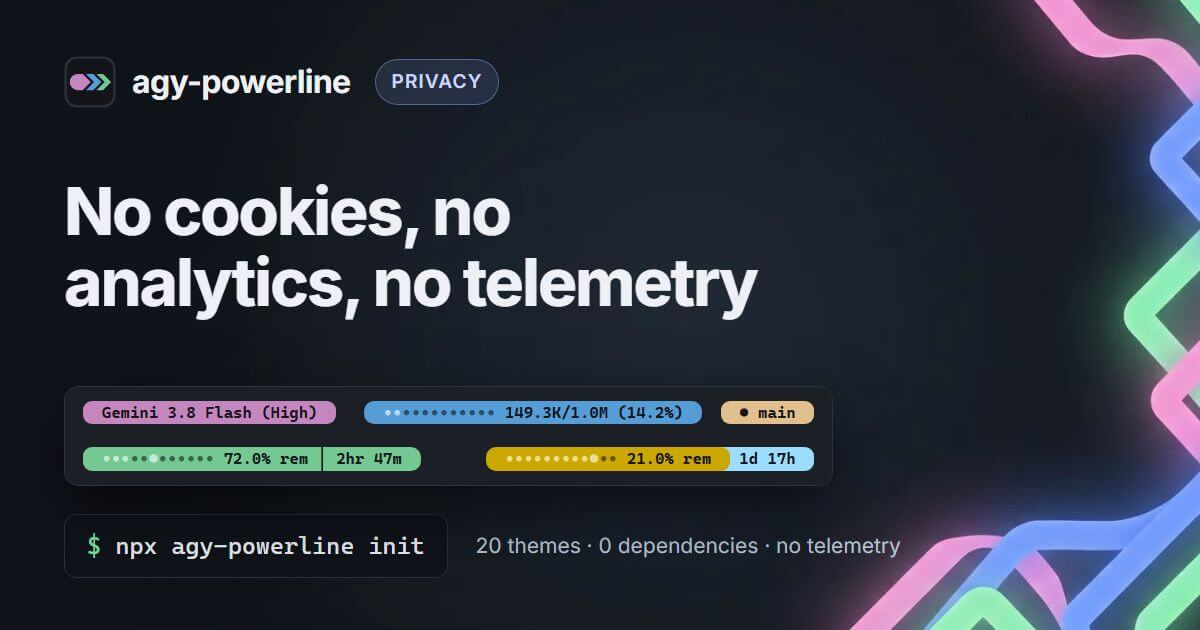
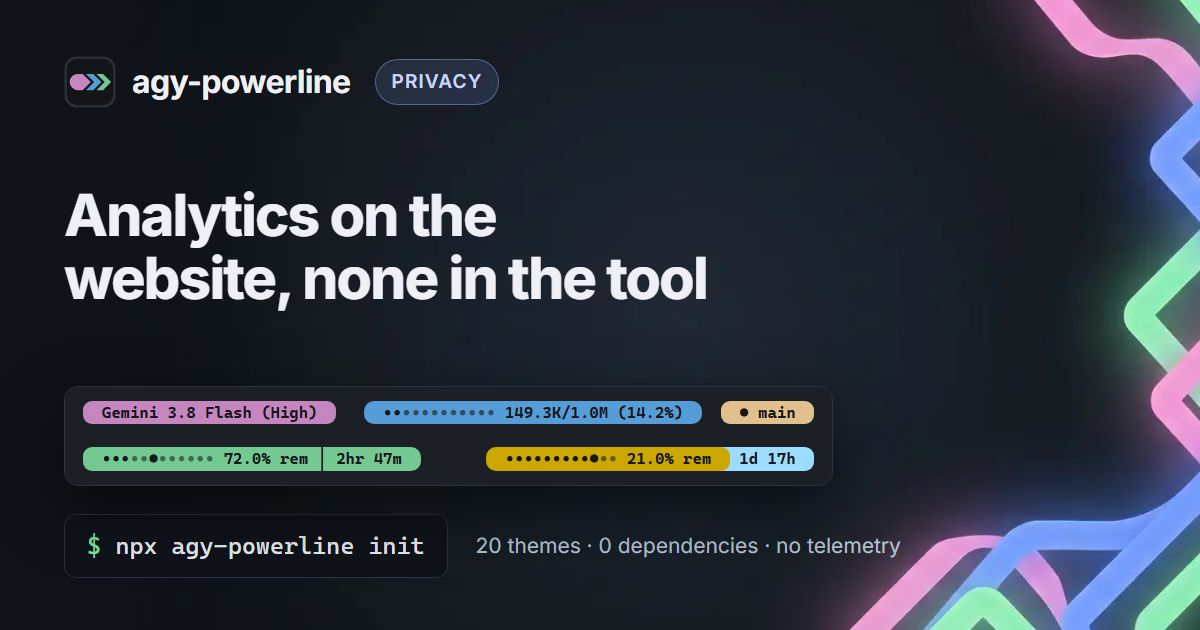
feat(site): add Google Analytics to agy-powerline.com (#179)
<!-- Pull requests target `main` and are squash-merged; the PR title
becomes the commit message. -->

## Description

Adds Google Analytics 4 to **agy-powerline.com only** (stream
`agy-powerline.com`, ID 16232023254, measurement ID `G-Z5XFJVH00H`). The
statusline, the CLI and the installed runtime are untouched and still
make no network calls. Only the website loads analytics.

- `analyticsTags()` in `scripts/site/layout.js` adds the standard gtag
snippet to the shared `<head>` (`buildHead()`), so every page gets it:
home, themes, configurator, docs, guides and 404. It starts tracking as
soon as a page loads. Standalone pages (`npm run gallery`, a local file)
are skipped.
- `SITE_CSP` allows the hosts Google lists for GA4: `script-src
https://www.googletagmanager.com`, `connect-src` and `img-src` for
`*.google-analytics.com`, `*.analytics.google.com` and
`*.googletagmanager.com`. Inline scripts are still allowed only by hash;
`finishPage()` hashes the gtag snippet the same way as the site's other
scripts.

### Docs: analytics on the website only, never in the tool

- **Privacy page** (`scripts/site/content/privacy.md`): new "Google
Analytics, on this website only" item (what it collects, Google's
Privacy Policy). "Nothing loads from other sites" becomes "Nothing else
loads from other sites". The status line and CLI section says they have
no analytics.
- **About** (`about.md`): the "No network, no telemetry" principle now
[…]

diff --git a/scripts/site/layout.js b/scripts/site/layout.js
@@ -24,13 +24,23 @@ const AUTHOR_URL = "https://github.com/wassim-azi";
 // Every indexable page has its own 1200×630 share card, drawn by
 // scripts/site/images.js into assets/site/og/<slug>.jpg.
 const OG_SIZE = { width: 1200, height: 630 };
-// Nothing loads from other sites. 'self' lets the stylesheet, the font, the
-// icons, the manifest and tools that read robots.txt or llms.txt from inside the
-// page reach this site. finishPage() swaps 'unsafe-inline' in script-src for the
-// hashes of the page's own scripts. Styles stay inline-able: the configurator
-// draws its preview with style attributes in the browser.
-const SITE_CSP =
-  "default-src 'none'; style-src 'self' 'unsafe-inline'; script-src 'unsafe-inline'; img-src 'self' data:; font-src 'self'; connect-src 'self'; manifest-src 'self'; base-uri 'none'; form-action 'none'";
+// Google Analytics 4 for agy-powerline.com (stream "agy-powerline.com", ID
+// 16232023254). Only the website loads it; the statusline and the CLI make no
+// network calls.
+const GA_MEASUREMENT_ID = "G-Z5XFJVH00H";
+// The hosts Google lists for a GA4 tag behind a CSP: gtag.js comes from
+// googletagmanager.com, and hits go to (region1.)google-analytics.com and
+// analytics.google.com, by fetch/sendBeacon or, as a fallback, an image.
+const GA_SCRIPT_SRC = "https://www.googletagmanager.com";
+const GA_CONNECT_SRC =
+  "https://*.google-analytics.com https://*.analytics.google.com https://*.googletagmanager.com";
+const GA_IMG_SRC = "https://*.google-analytics.com https://*.googletagmanager.com";
+// Everything else loads from the site only. 'self' lets the stylesheet, the
+// font, the icons, the manifest and tools that read robots.txt or llms.txt from
+// inside the page reach this site. finishPage() swaps 'unsafe-inline' in
+// script-src for the hashes of the page's own scripts. Styles stay inline-able:
+// the configurator draws its preview with style attributes in the browser.
+const SITE_CSP = `default-src 'none'; style-src 'self' 'unsafe-inline'; script-src 'unsafe-inline' ${GA_SCRIPT_SRC}; img-src 'self' data: ${GA_IMG_SRC}; font-src 'self'; connect-src 'self' ${GA_CONNECT_SRC}; manifest-src 'self'; base-uri 'none'; form-action 'none'`;
 const FONT_URL = "/fonts/inter-latin.woff2";
 // The styles every page shares (SHARED_CSS), in one file the browser keeps
 // between pages.
@@ -1381,6 +1391,22 @@ function buildHead({
           }
         } catch {}
       })();
+    </script>${standalone ? "" : analyticsTags()}`;
+}
+
+// The Google Analytics tag, on every page of the site. A standalone page is a
+// local file (npm run gallery), not a visit, so it gets none. The inline part
+// is hashed into the page's CSP by finishPage() like the site's other scripts.
+function analyticsTags() {
+  return `
+    <script async src="${GA_SCRIPT_SRC}/gtag/js?id=${GA_MEASUREMENT_ID}"></script>
+    <script>
+      window.dataLayer = window.dataLayer || [];
+      function gtag() {
+        dataLayer.push(arguments);
+      }
+      gtag("js", new Date());
+      gtag("config", "${GA_MEASUREMENT_ID}");
     </script>`;
 }
 
@@ -1631,7 +1657,7 @@ function build404Html() {
   <head>
     <meta charset="utf-8" />
     <meta name="viewport" content="width=device-width, initial-scale=1" />
-    <!-- Nothing loads from other sites: the page is its own inline style and script. -->
+    <!-- Only Google Analytics loads from another site: the rest is the page's own inline style and script. -->
     <!--SITE_CSP-->
     <!--SITE_HEAD-->
     <style>

diff --git a/scripts/site/home-text.js b/scripts/site/home-text.js
@@ -163,7 +163,7 @@ const HOME_TEXT = {
       ],
       [
         "Does it send any data anywhere?",
-        'No. agy-powerline makes no network requests and has no telemetry or analytics. Problems go to a local log you can read, clear or turn off. <a href="/security/">Security &amp; Privacy</a> lists every file it reads and writes.',
+        'No. agy-powerline makes no network requests and has no telemetry or analytics. Problems go to a local log you can read, clear or turn off. <a href="/security/">Security &amp; Privacy</a> lists every file it reads and writes. Only this website uses Google Analytics, to count visits (<a href="/privacy/">Privacy</a>).',
       ],
       [
         "Does it slow agy down?",
@@ -347,7 +347,7 @@ const HOME_TEXT = {
       ],
       [
         "Envoie-t-elle des données quelque part ?",
-        'Non. agy-powerline ne fait aucune requête réseau et n\'a ni télémétrie ni analytics. Les problèmes vont dans un journal local que vous pouvez lire, vider ou désactiver. <a href="/security/">Sécurité et confidentialité</a> (en anglais) liste chaque fichier lu et écrit.',
+        'Non. agy-powerline ne fait aucune requête réseau et n\'a ni télémétrie ni analytics. Les problèmes vont dans un journal local que vous pouvez lire, vider ou désactiver. <a href="/security/">Sécurité et confidentialité</a> (en anglais) liste chaque fichier lu et écrit. Seul ce site utilise Google Analytics, pour compter les visites (<a href="/privacy/">Confidentialité</a>, en anglais).',
       ],
       [
         "Ralentit-elle agy ?",
@@ -531,7 +531,7 @@ const HOME_TEXT = {
       ],
       [
         "¿Envía datos a algún sitio?",
-        'No. agy-powerline no hace ninguna petición de red y no tiene telemetría ni analíticas. Los problemas van a un registro local que puedes leer, vaciar o desactivar. <a href="/security/">Seguridad y privacidad</a> (en inglés) enumera cada archivo que lee y escribe.',
+        'No. agy-powerline no hace ninguna petición de red y no tiene telemetría ni analíticas. Los problemas van a un registro local que puedes leer, vaciar o desactivar. <a href="/security/">Seguridad y privacidad</a> (en inglés) enumera cada archivo que lee y escribe. Solo este sitio usa Google Analytics, para contar las visitas (<a href="/privacy/">Privacidad</a>, en inglés).',
       ],
       [
         "¿Hace más lento a agy?",

diff --git a/tests/shared/site.test.js b/tests/shared/site.test.js
@@ -35,13 +35,14 @@ function htmlFiles(dir, prefix = "") {
 }
 
 // What a page loads from elsewhere: src/srcset, stylesheets and icons, CSS
-// url() and @import. Links people click (<a href>) and the canonical and
-// alternate URLs only name pages, so they don't count.
+// url() and @import. Google Analytics (gtag.js) is allowed on the site;
+// links people click (<a href>) and the canonical and alternate URLs only name
+// pages, so they don't count.
 function externalLoads(html) {
   const remote = (url) => /^(?:https?:)?\/\//i.test(url.trim());
   const found = [];
   for (const m of html.matchAll(/\s(?:src|srcset)="([^"]*)"/g)) {
-    if (remote(m[1])) found.push(m[1]);
+    if (remote(m[1]) && !m[1].startsWith("https://www.googletagmanager.com/")) found.push(m[1]);
   }
   for (const m of html.matchAll(/<link\b[^>]*>/g)) {
     const rel = (m[0].match(/\brel="([^"]*)"/) || [])[1] || "";
@@ -112,7 +113,7 @@ async function run() {
 
     const noCsp = files.filter(
       (file) =>
-        !/<meta http-equiv="Content-Security-Policy" content="default-src 'none';[^"]*img-src 'self' data:; font-src 'self';/.test(
+        !/<meta http-equiv="Content-Security-Policy" content="default-src 'none';[^"]*img-src 'self' data:(?: https:\/\/\*\.(?:google-analytics|googletagmanager)\.com)*; font-src 'self';/.test(
           pages[file]
         )
     );
@@ -147,10 +148,12 @@ async function run() {
     );
 
     // A script file a page loads is on the site, under the page's own folder
-    // (which robots.txt keeps crawlers off), with an integrity hash that matches it.
+    // (which robots.txt keeps crawlers off), with an integrity hash that matches it,
+    // or Google Analytics' gtag.js from www.googletagmanager.com.
     const badScripts = files.flatMap((file) =>
       [...pages[file].matchAll(/<script\b[^>]*\ssrc="([^"]*)"[^>]*>/g)]
         .filter(([tag, src]) => {
+          if (/^https:\/\/www\.googletagmanager\.com\//.test(src)) return false;
           const target = path.join(out, src);
           const integrity = (tag.match(/\sintegrity="sha384-([^"]+)"/) || [])[1];
           return (

diff --git a/scripts/site/build.js b/scripts/site/build.js
@@ -140,13 +140,13 @@ const MARKDOWN_PAGES = [
   },
   {
     source: "scripts/site/content/privacy.md",
-    card: { title: "No cookies, no analytics, no telemetry", label: "Privacy" },
+    card: { title: "Analytics on the website, none in the tool", label: "Privacy" },
     path: "privacy/",
     name: "Privacy",
     edit: false,
     title: "Privacy - agy-powerline",
     description:
-      "agy-powerline.com sets no cookies, has no analytics and loads nothing from other sites, and the statusline makes no network calls. What is stored, and where.",
+      "agy-powerline.com uses Google Analytics to count visits; the statusline and the CLI make no network calls and have no analytics. What is collected, and where.",
   },
 ];
 
@@ -203,7 +203,7 @@ const LINKS = {
   "docs/payload/": ["Payload reference", "What agy sends to a status line."],
   "faq/": ["FAQ", "Short answers to the common questions."],
   "security/": ["Security", "What runs on your machine."],
-  "privacy/": ["Privacy", "No cookies, analytics or telemetry."],
+  "privacy/": ["Privacy", "Site analytics only, no telemetry in the tool."],
   "changelog/": ["Changelog", "Release notes for every version."],
   "about/": ["About", "Who builds it, and why."],
   "configure/": ["Configurator", "Build your bar in the browser."],

diff --git a/scripts/gallery/home.html b/scripts/gallery/home.html
@@ -5,7 +5,7 @@
     <!-- Copyright (c) 2026 agy-powerline contributors -->
     <meta charset="utf-8" />
     <meta name="viewport" content="width=device-width, initial-scale=1" />
-    <!-- Nothing loads from other sites: the page is its own inline style and script. -->
+    <!-- Only Google Analytics loads from another site: the rest is the page's own inline style and script. -->
     <!--SITE_CSP-->
     <!--SITE_HEAD-->
     <!-- The hero artwork is the largest thing on the first screen (LCP), so it

diff --git a/scripts/configurator/template.html b/scripts/configurator/template.html
@@ -5,7 +5,7 @@
     <!-- Copyright (c) 2026 agy-powerline contributors -->
     <meta charset="utf-8" />
     <meta name="viewport" content="width=device-width, initial-scale=1" />
-    <!-- Nothing loads from other sites: the page is its own inline style and script. -->
+    <!-- Only Google Analytics loads from another site: the rest is the page's own inline style and script. -->
     <!--SITE_CSP-->
     <!--SITE_HEAD-->
     <style>

diff --git a/scripts/gallery/themes.html b/scripts/gallery/themes.html
@@ -5,7 +5,7 @@
     <!-- Copyright (c) 2026 agy-powerline contributors -->
     <meta charset="utf-8" />
     <meta name="viewport" content="width=device-width, initial-scale=1" />
-    <!-- Nothing loads from other sites: the page is its own inline style and script. -->
+    <!-- Only Google Analytics loads from another site: the rest is the page's own inline style and script. -->
     <!--SITE_CSP-->
     <!--SITE_HEAD-->
     <style>

diff --git a/scripts/site/doc-page.js b/scripts/site/doc-page.js
@@ -470,7 +470,7 @@ function buildDocPage(page) {
   <head>
     <meta charset="utf-8" />
     <meta name="viewport" content="width=device-width, initial-scale=1" />
-    <!-- Nothing loads from other sites: the page is its own inline style and script. -->
+    <!-- Only Google Analytics loads from another site: the rest is the page's own inline style and script. -->
     <!--SITE_CSP-->
     <!--SITE_HEAD-->
     <style>

diff --git a/SECURITY-REVIEW.md b/SECURITY-REVIEW.md
@@ -22,16 +22,16 @@ The code was read where untrusted input comes in or where the software acts on t
 | The problem log and `report`                 | Entries are built from an allowlist; messages have paths, home folder, user and host names, emails, URLs, IPs and token-like strings removed; files are `0600` on macOS and Linux.                                                                                                                                                                                                                                                        | No issue         |
 | The statusline under bad input               | stdin is read with a deadline and closed; a missing or malformed payload exits 0 with a short fixed marker at most; errors go to the local log, never as a stack trace in the bar.                                                                                                                                                                                                                                                        | No issue         |
 | Supply chain                                 | No runtime dependencies; workflows start from `permissions: {}`; actions pinned to commits; `pull_request_target` used only by the labeler, welcome and thanks workflows, which never check out the pull request's code; event data reaches scripts through `env`; releases need a tag on `main` and the maintainer's approval, and carry signed provenance.                                                                              | No issue         |
-| Website                                      | Static pages, nothing loaded from other sites, no cookies or analytics, a Content Security Policy in each page.                                                                                                                                                                                                                                                                                                                           | Finding 4        |
+| Website                                      | Static pages, a Content Security Policy in each page. Only the website uses Google Analytics to count visits; the tool (statusline and CLI) has no analytics.                                                                                                                                                                                                                                                                             | Finding 4        |
 
 ## Findings
 
-| #   | Severity      | Finding                                                                                                                                                                                                                                                                                                                                                                                    | Status                                                                               |
-| --- | ------------- | ------------------------------------------------------------------------------------------------------------------------------------------------------------------------------------------------------------------------------------------------------------------------------------------------------------------------------------------------------------------------------------------ | ------------------------------------------------------------------------------------ |
-| 1   | Low           | When an `exec` command times out, Node stops the shell it started, but on Windows a program that shell started can keep running (seen with `ping`). It runs as the user, with the user's own command, so no boundary is crossed; it costs resources until it ends.                                                                                                                         | Open, planned in [ROADMAP.md](ROADMAP.md) ("`exec` timeouts end the whole command")  |
-| 2   | Informational | `getCacheFilePath()` falls back to a per-user file name in the system temp folder when there is no config file. On a Linux machine shared with other accounts, that name can be guessed and the file pre-created. The runtime never reaches the fallback, since `exec` widgets only run from a config file in the install dir, but the code comment claimed the name alone prevented this. | Comment corrected in this review                                                     |
-| 3   | Informational | `sanitizeDeep` stops descending after 8 levels of nesting. The session object it cleans is far shallower, so every string a layout prints is cleaned today; a deeper session object in the future would need the limit raised.                                                                                                                                                             | Accepted                                                                             |
-| 4   | Low           | agy-powerline.com is served by GitHub Pages, which sends no HTTP security headers (HSTS, `Content-Security-Policy`, `X-Content-Type-Options`, `frame-ancestors`). The pages set their CSP in a `<meta>` tag, which can't express `frame-ancestors`, so the site can be framed by another page. The site has no forms, accounts or cookies, which limits the impact.                        | Accepted: the site stays on GitHub Pages alone, with no third-party proxy or service |
+| #   | Severity      | Finding                                                                                                                                                                                                                                                                                                                                                                                                           | Status                                                                               |
+| --- | ------------- | ----------------------------------------------------------------------------------------------------------------------------------------------------------------------------------------------------------------------------------------------------------------------------------------------------------------------------------------------------------------------------------------------------------------- | ------------------------------------------------------------------------------------ |
+| 1   | Low           | When an `exec` command times out, Node stops the shell it started, but on Windows a program that shell started can keep running (seen with `ping`). It runs as the user, with the user's own command, so no boundary is crossed; it costs resources until it ends.                                                                                                                                                | Open, planned in [ROADMAP.md](ROADMAP.md) ("`exec` timeouts end the whole command")  |
+| 2   | Informational | `getCacheFilePath()` falls back to a per-user file name in the system temp folder when there is no config file. On a Linux machine shared with other accounts, that name can be guessed and the file pre-created. The runtime never reaches the fallback, since `exec` widgets only run from a config file in the install dir, but the code comment claimed the name alone prevented this.                        | Comment corrected in this review                                                     |
+| 3   | Informational | `sanitizeDeep` stops descending after 8 levels of nesting. The session object it cleans is far shallower, so every string a layout prints is cleaned today; a deeper session object in the future would need the limit raised.                                                                                                                                                                                    | Accepted                                                                             |
+| 4   | Low           | agy-powerline.com is served by GitHub Pages, which sends no HTTP security headers (HSTS, `Content-Security-Policy`, `X-Content-Type-Options`, `frame-ancestors`). The pages set their CSP in a `<meta>` tag, which can't express `frame-ancestors`, so the site can be framed by another page. The site has no forms or accounts, and only Google Analytics sets cookies on the website, which limits the impact. | Accepted: the site stays on GitHub Pages alone, with no third-party proxy or service |
 
 No finding allows a repository, a payload, command output or an imported file to run a command, change the user's settings or read their data.
 

diff --git a/scripts/site/content/privacy.md b/scripts/site/content/privacy.md
@@ -1,11 +1,11 @@
 # Privacy
 
-This site collects nothing about you, and neither does agy-powerline itself.
+This website uses Google Analytics to count visits. agy-powerline itself, the status line and the CLI, has no analytics and collects nothing about you.
 
 ## This website
 
-- **No cookies, no analytics, no tracking.** The site has no analytics script and sets no cookies.
-- **Nothing loads from other sites.** Every page carries its own scripts and uses the site's own stylesheet, and a Content Security Policy stops it from loading anything from another domain: no web fonts, no images, no scripts from elsewhere. Links to GitHub and npm open those sites only when you click them.
+- **Google Analytics, on this website only.** Every page of agy-powerline.com loads Google Analytics 4 (Google's `gtag.js`) when you open it. It sets Google Analytics cookies and sends Google the page you view, the page you came from, your browser, device, screen size, language and approximate location, so we can see how many people visit and which pages they read. Google handles this data under the [Google Privacy Policy](https://policies.google.com/privacy). The status line and the CLI never load it.
+- **Nothing else loads from other sites.** Apart from Google Analytics, every page carries its own scripts and uses the site's own stylesheet, and a Content Security Policy stops it from loading anything from any other domain: no web fonts, no images, no other scripts from elsewhere. Links to GitHub and npm open those sites only when you click them.
 - **One setting in your browser, if you choose one.** When you press System, Light or Dark at the top of a page, your browser stores that choice under `agy-powerline-theme` (local storage), so the next page opens the same way. It never leaves your browser. Clear it with your browser's site data.
 - **The configurator works in your browser.** The bar you build, and a config you paste or load, stay on the page. A share link keeps your config after the `#` in the address, a part browsers never send to a server. Downloading the config writes a file on your computer and sends nothing.
 - **The quota calculator** works in your browser too, and stores nothing.
@@ -14,7 +14,7 @@ The site is hosted on GitHub Pages. Like any web host, GitHub receives the usual
 
 ## The status line and the CLI
 
-agy-powerline makes no network requests and has no telemetry. It reads the session data agy sends it, its own config and your project's `.git` folder, and keeps a local problem log that you can read, clear or turn off. It never prints, logs or saves your email or session and conversation IDs. The [Security](../../../SECURITY.md) page lists every file it reads and writes and every process it starts.
+agy-powerline makes no network requests and has no telemetry or analytics: Google Analytics is only on this website. It reads the session data agy sends it, its own config and your project's `.git` folder, and keeps a local problem log that you can read, clear or turn off. It never prints, logs or saves your email or session and conversation IDs. The [Security](../../../SECURITY.md) page lists every file it reads and writes and every process it starts.
 
 ## Questions
 

diff --git a/SECURITY.md b/SECURITY.md
@@ -6,7 +6,7 @@ This page lists exactly what `agy-powerline` does on your machine, so you can ch
 
 ## No network, no telemetry
 
-- No analytics, tracking or remote crash reporting. The code makes no network requests.
+- No analytics, tracking or remote crash reporting in the package (the statusline and the CLI). The code makes no network requests. Only the website uses analytics ([The website](#the-website)).
 - Problems are written to a local log file (below) that you can read, clear or turn off. It only leaves your machine if you attach it to an issue yourself.
 - The only outbound action is opening the project's GitHub page in your browser, and only when you press `g` in `configure`.
 
@@ -32,7 +32,7 @@ The CLI itself (`npx agy-powerline ...`) additionally:
 
 ## The website
 
-[agy-powerline.com](https://agy-powerline.com/) is a static site built from this repo (`scripts/site/`) and served by GitHub Pages. Its pages load nothing from other sites (a Content Security Policy allows only the scripts each page was built with, named by their hash; the configurator's script is a file on the site whose content its integrity hash pins, the site's own stylesheet and inline styles, and images and the Inter font served from the site itself), set no cookies and run no analytics. The browser configurator and the quota calculator work in your browser and send nothing; the only thing a page stores is your System / Light / Dark choice, in your browser's local storage. Details: [Privacy](https://agy-powerline.com/privacy/).
+[agy-powerline.com](https://agy-powerline.com/) is a static site built from this repo (`scripts/site/`) and served by GitHub Pages. It uses Google Analytics 4: every page loads Google's `gtag.js` from `www.googletagmanager.com`, which sets Google Analytics cookies and sends page views to Google Analytics. This is only on the website; the package never loads it and makes no network calls. Apart from Google Analytics, the pages load nothing from other sites (a Content Security Policy allows only the scripts each page was built with, named by their hash, and Google Analytics' hosts; the configurator's script is a file on the site whose content its integrity hash pins, the site's own stylesheet and inline styles, and images and the Inter font served from the site itself). The browser configurator and the quota calculator work in your browser and send nothing; besides the Google Analytics cookies, the only thing a page stores is your System / Light / Dark choice, in your browser's local storage. Details: [Privacy](https://agy-powerline.com/privacy/).
 
 After each deploy, the Pages workflow (`.github/workflows/pages.yml`) sends the site's page addresses to IndexNow (`api.indexnow.org`), so search engines that use it see changed pages sooner. That runs in GitHub Actions, sends only those public addresses, and is not part of the package.
 

diff --git a/scripts/site/content/about.md b/scripts/site/content/about.md
@@ -11,7 +11,7 @@ Questions, bugs and ideas go to [GitHub issues](https://github.com/wassim-azi/ag
 ## Principles
 
 - **No runtime dependencies.** The package uses only Node.js built-ins, so installing it pulls in nothing else.
-- **No network, no telemetry.** The status line and the CLI make no network requests. This site sets no cookies and loads nothing from other sites ([Privacy](privacy.md)).
+- **No network, no telemetry in the tool.** The status line and the CLI make no network requests and have no analytics. Only this website uses Google Analytics, to count visits ([Privacy](privacy.md)).
 - **Your machine stays yours.** The config is read only from your own install folder, shell command widgets never run in previews, and `init` backs up agy's settings before changing them ([Security](../../../SECURITY.md)).
 - **Every preview is real.** The bars on this site are rendered by the same code that draws your bar in agy.
 - **Accessible by default.** Every theme is checked for WCAG AA contrast, and two themes are built for color-blind users.
